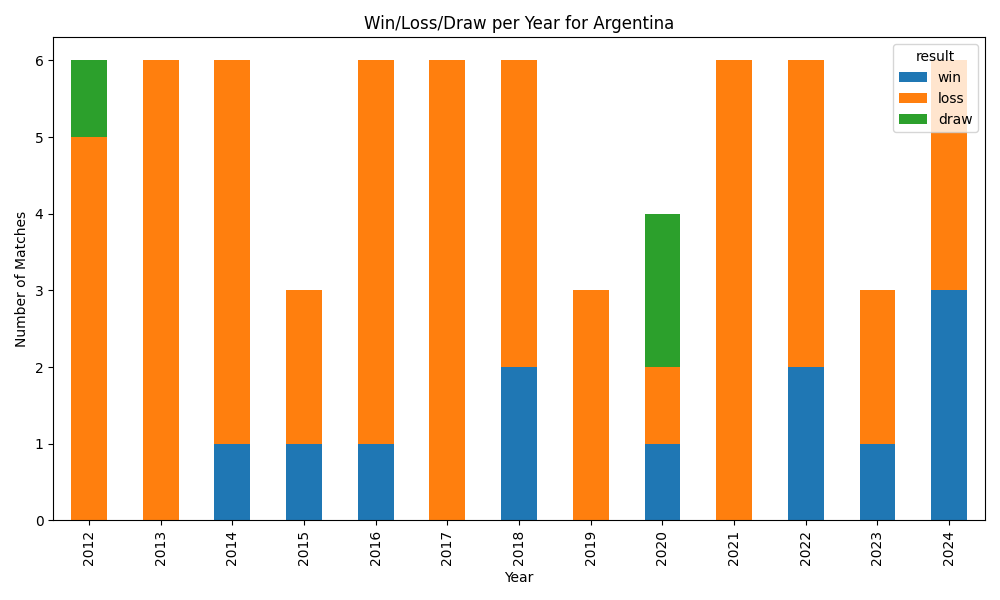
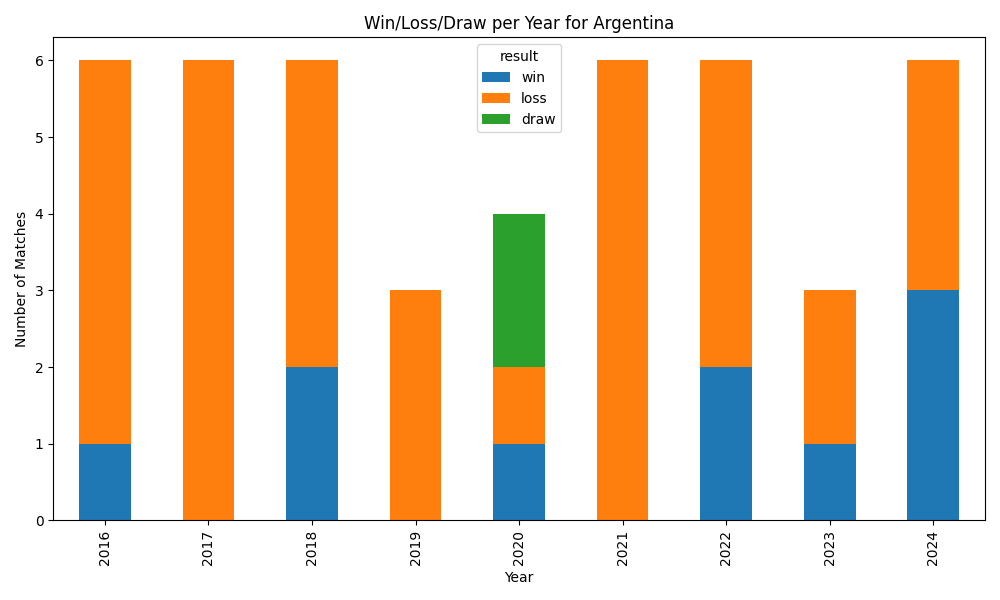
commit

diff --git a/ResultsAndForecast.py b/ResultsAndForecast.py
@@ -1,0 +1,205 @@
+import pandas as pd
+import mysql.connector
+import matplotlib.pyplot as plt
+import numpy as np
+import dataframe_image as dfi
+import matplotlib.colors as mcolors
+
+# Connect to MySQL
+conn = mysql.connector.connect(
+    host='',
+    user='',
+    password='',
+    database='rugby'
+)
+
+# Query to get match results with teams and year
+query = """
+SELECT
+    se.id AS sport_event_id,
+    s.year,
+    c1.name AS home_team,
+    c2.name AS away_team,
+    ses.home_score,
+    ses.away_score
+FROM sport_events se
+JOIN seasons s ON se.season_id = s.id
+JOIN event_competitors ec1 ON se.id = ec1.sport_event_id AND ec1.qualifier = 'home'
+JOIN event_competitors ec2 ON se.id = ec2.sport_event_id AND ec2.qualifier = 'away'
+JOIN competitors c1 ON ec1.competitor_id = c1.id
+JOIN competitors c2 ON ec2.competitor_id = c2.id
+JOIN sport_event_status ses ON se.id = ses.sport_event_id
+WHERE ses.home_score IS NOT NULL AND ses.away_score IS NOT NULL AND s.year >= 2016
+"""
+
+df = pd.read_sql(query, conn)
+
+# Add result columns
+def get_result(row, team, is_home):
+    if row['home_score'] > row['away_score']:
+        return 'win' if is_home else 'loss'
+    elif row['home_score'] < row['away_score']:
+        return 'loss' if is_home else 'win'
+    else:
+        return 'draw'
+
+records = []
+for _, row in df.iterrows():
+    # Home team
+    records.append({
+        'team': row['home_team'],
+        'year': row['year'],
+        'result': get_result(row, row['home_team'], True)
+    })
+    # Away team
+    records.append({
+        'team': row['away_team'],
+        'year': row['year'],
+        'result': get_result(row, row['away_team'], False)
+    })
+
+results_df = pd.DataFrame(records)
+
+# Aggregate
+summary = results_df.groupby(['team', 'year', 'result']).size().unstack(fill_value=0).reset_index()
+
+# Plot for all teams, each in a separate graph
+for team_name in summary['team'].unique():
+    team_data = summary[summary['team'] == team_name].set_index('year')[['win', 'loss', 'draw']]
+    team_data.plot(kind='bar', stacked=True, figsize=(10,6))
+    plt.title(f'Win/Loss/Draw per Year for {team_name}')
+    plt.ylabel('Number of Matches')
+    plt.xlabel('Year')
+    plt.tight_layout()
+    plt.savefig(f"{team_name}_win_loss_draw.png")
+    plt.close()
+
+# 1. Assign exponential weights to each season (most recent = highest, much more than oldest)
+base = 2  # You can try 1.5, 2, 3, etc. for more/less steepness
+all_years = sorted(summary['year'].unique())
+weights = {year: base ** i for i, year in enumerate(all_years)}  # Oldest=base^0, Newest=base^n
+
+# 2. Calculate weighted wins per team
+summary['weight'] = summary['year'].map(weights)
+summary['weighted_wins'] = summary['win'] * summary['weight']
+
+# 3. Aggregate weighted wins per team
+team_weighted_wins = summary.groupby('team')['weighted_wins'].sum()
+
+# 4. Calculate probabilities
+total_weighted_wins = team_weighted_wins.sum()
+probabilities = (team_weighted_wins / total_weighted_wins) * 100
+
+# 5. Plot as pie chart
+plt.figure(figsize=(8,8))
+plt.pie(probabilities, labels=probabilities.index, autopct='%1.1f%%', startangle=140)
+plt.title('Forecasted Probability of Winning the Rugby Championship\n(Exponentially Weighted by Recent Performance)')
+plt.tight_layout()
+plt.savefig("forecast_pie_chart.png")  # <-- Save the pie chart as an image
+#plt.show()
+
+
+
+# List of teams to plot
+teams_to_plot = ['New Zealand','South Africa', 'Argentina', 'Australia']
+
+fig, axes = plt.subplots(2, 2, figsize=(18, 12), sharex=True)
+
+for ax, team_name in zip(axes.flatten(), teams_to_plot):
+    team_data = summary[summary['team'] == team_name].set_index('year')[['win', 'loss', 'draw']]
+    team_data = team_data.reindex(sorted(summary['year'].unique()), fill_value=0)
+    bars = team_data.plot(kind='bar', stacked=True, ax=ax, legend=False)
+    ax.set_title(f'Win/Loss/Draw per Year for {team_name}', fontsize=26)  # <-- doubled font size
+    ax.set_ylabel('Number of Matches', fontsize=20)
+    ax.set_xlabel('Year', fontsize=20)
+    legend = ax.legend(['Win', 'Loss', 'Draw'], loc='lower right', prop={'size': 24})  # <-- doubled font size
+
+    # Increase y-axis limit for visibility
+    max_total = team_data.sum(axis=1).max()
+    ax.set_ylim(0, max_total + 1)
+
+    # Add win percentage above each column
+    for idx, year in enumerate(team_data.index):
+        total = team_data.loc[year].sum()
+        win = team_data.loc[year, 'win']
+        if total > 0:
+            percent = win / total * 100
+            ax.text(idx, total + 0.2, f'{percent:.1f}%', ha='center', va='bottom', fontsize=16, fontweight='bold')
+
+plt.tight_layout()
+plt.savefig("win_loss_draw_four_panel.png")
+#plt.show()
+
+# Query for all scheduled 2025 matches (even if not played yet)
+query_2025 = """
+SELECT
+    se.id AS sport_event_id,
+    s.year,
+    c1.name AS home_team,
+    c2.name AS away_team,
+    se.start_time
+FROM sport_events se
+JOIN seasons s ON se.season_id = s.id
+JOIN event_competitors ec1 ON se.id = ec1.sport_event_id AND ec1.qualifier = 'home'
+JOIN event_competitors ec2 ON se.id = ec2.sport_event_id AND ec2.qualifier = 'away'
+JOIN competitors c1 ON ec1.competitor_id = c1.id
+JOIN competitors c2 ON ec2.competitor_id = c2.id
+WHERE s.year = 2025
+"""
+
+games_2025 = pd.read_sql(query_2025, conn)
+
+# 2. Format the date as 'mmmm-dd'
+games_2025['Date'] = pd.to_datetime(games_2025['start_time']).dt.strftime('%B-%d')
+
+# Calculate team strengths and draw probability for 2025 forecast
+recent_years = [2023, 2024]
+recent_summary = summary[summary['year'].isin(recent_years)].copy()
+weights = {2023: 1, 2024: 3}
+recent_summary['weight'] = recent_summary['year'].map(weights)
+recent_summary['weighted_wins'] = recent_summary['win'] * recent_summary['weight']
+team_strength = recent_summary.groupby('team')['weighted_wins'].sum()
+team_strength = team_strength.replace(0, 1)  # Avoid division by zero
+
+# Calculate historical draw probability from recent years
+total_games = recent_summary[['win', 'loss', 'draw']].sum().sum()
+total_draws = recent_summary['draw'].sum()
+historical_draw_prob = total_draws / total_games if total_games > 0 else 0.1
+
+# 3. When building prob_rows, include the date
+prob_rows = []
+for _, row in games_2025.iterrows():
+    home = row['home_team']
+    away = row['away_team']
+    date = row['Date']
+    home_strength = team_strength.get(home, 1) * 1.2  # 20% home weighting
+    away_strength = team_strength.get(away, 1)
+    total_strength = home_strength + away_strength
+
+    draw_prob = historical_draw_prob
+    home_win_prob = (home_strength / total_strength) * (1 - draw_prob)
+    away_win_prob = (away_strength / total_strength) * (1 - draw_prob)
+
+    prob_rows.append({
+        'Date': date,
+        'Home Team': home,
+        'Away Team': away,
+        'Home Win %': round(home_win_prob * 100),
+        'Away Win %': round(away_win_prob * 100)
+    })
+
+prob_df = pd.DataFrame(prob_rows)
+
+# 4. Remove the DataFrame index from the image
+styled = prob_df.style.background_gradient(
+    subset=['Home Win %', 'Away Win %'],
+    cmap=mcolors.LinearSegmentedColormap.from_list("winloss", ["red", "yellow", "green"])
+)
+
+dfi.export(styled.hide(axis="index"), '2025_match_probabilities_colored.png')
+print("Saved 2025_match_probabilities_colored.png")
+
+# Optionally, also print or save as CSV
+print(prob_df)
+prob_df.to_csv('2025_match_probabilities.csv', index=False)
+

diff --git a/Test.py b/Test.py
@@ -3,7 +3,7 @@ import pandas as pd
 from time import sleep
 
 # ⚠ Replace this with your actual API key
-API_KEY = 'YK0FXF4QPWAdldOz0vzypPzSEvTEVfDtCubkL3hN'
+API_KEY = ''
 
 # ✅ Use the correct base URL for v3
 BASE_URL = 'https://api.sportradar.com/rugby-union/trial/v3/en/'

diff --git a/IDs.py b/IDs.py
@@ -6,7 +6,7 @@ url = "https://api.sportradar.com/rugby-union/trial/v3/en/seasons.json"
 
 headers = {
     "accept": "application/json",
-    "x-api-key": "YK0FXF4QPWAdldOz0vzypPzSEvTEVfDtCubkL3hN"
+    "x-api-key": ""
 }
 
 response = requests.get(url, headers=headers)

diff --git a/TestTwo.py b/TestTwo.py
@@ -2,7 +2,7 @@ import requests
 import pandas as pd
 from time import sleep
 
-API_KEY = 'YK0FXF4QPWAdldOz0vzypPzSEvTEVfDtCubkL3hN'
+API_KEY = ''
 BASE_URL = 'https://api.sportradar.com/rugby-union/trial/v3/en/competitions'
 
 # List of season IDs to loop through

diff --git a/TestFive.py b/TestFive.py
@@ -3,7 +3,7 @@ import pandas as pd
 import time
 from collections.abc import MutableMapping
 
-API_KEY = "YK0FXF4QPWAdldOz0vzypPzSEvTEVfDtCubkL3hN"
+API_KEY = ""
 BASE_URL = "https://api.sportradar.com/rugby-union/trial/v3/en/seasons"
 
 SEASON_IDS = [

diff --git a/MySQL_Import.py b/MySQL_Import.py
@@ -19,9 +19,9 @@ for f in json_files:
 
 # Connect to MySQL
 conn = mysql.connector.connect(
-    host='localhost',
-    user='root',
-    password='Hein5024!@'
+    host='',
+    user='',
+    password=''
 )
 cursor = conn.cursor()
 

diff --git a/JSONdownload.py b/JSONdownload.py
@@ -1,7 +1,7 @@
 import requests
 import time
 
-API_KEY = "YK0FXF4QPWAdldOz0vzypPzSEvTEVfDtCubkL3hN"
+API_KEY = ""
 BASE_URL = "https://api.sportradar.com/rugby-union/trial/v3/en/seasons"
 
 SEASON_IDS = [

diff --git a/Configuration.py b/Configuration.py
@@ -1,4 +1,4 @@
-API_key = 'YK0FXF4QPWAdldOz0vzypPzSEvTEVfDtCubkL3hN'
+API_key = ''
 
 #from rugby_api.client import RugbyAPI
 
